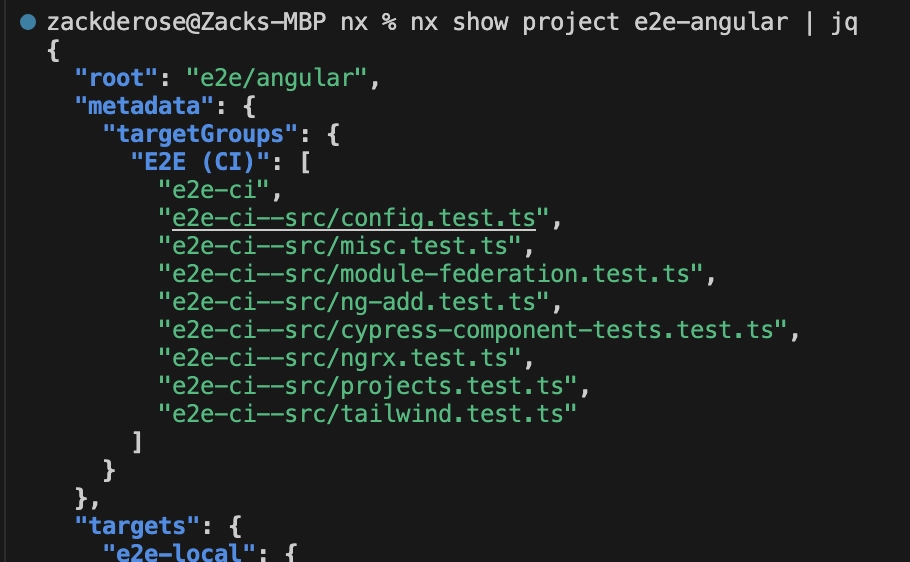
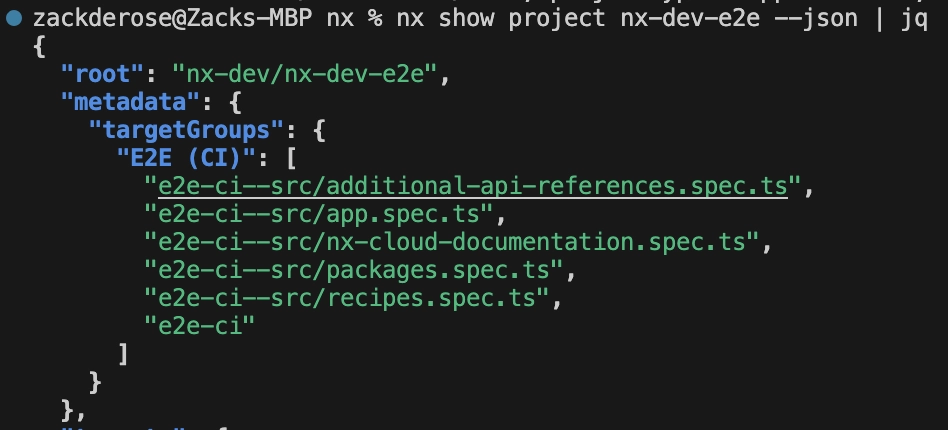
docs(core): editting for Jason review

Changed region(s): [[0.0, 0.0, 0.9846, 1.0]]

diff --git a/docs/blog/2024-05-07-nx-19-release.md b/docs/blog/2024-05-07-nx-19-release.md
@@ -27,7 +27,7 @@ Here's the rundown of the major things we'll cover in this update:
 - [NEW PLUGIN: @nx/gradle](#new-plugin-nxgradle)
 - [Nx Atomizer Enhancements](#nx-atomizer-enhancements)
 - [Project View Enhancements](#more-project-view-enhancements-for-targets)
-- [Generators to Migrate to Project Crystal](#generators-to-migrate-to-project-crystal)
+- [Generators to Convert to Project Crystal](#generators-to-convert-to-project-crystal)
 - [BREAKING CHANGE: Updating Bundled Environment Variables: `NX_` to `NX_PUBLIC_`](#breaking-change-updating-bundled-environment-variables-to)
 - [General Crystal Polishing](#general-crystal-polishing)
 - [New Conference: Monorepo World 2024](#new-conference-monorepo-world-2024)
@@ -42,13 +42,11 @@ We've launched a new first-party plugin for Gradle!
 
 Emily, the engineer that worked on this effort, posted an entire article where you can find the full details [here](/blog/2024-04-19-manage-your-gradle).
 
-Like most of our Nx plugins, you'll be able to use this plugin to generate new applications and projects in your workspace for Gradle, as well as to manage your project dependencies and tasks!
+Thanks to the benefits of Project Crystal - which allows us to determine information to create Nx Tasks based on the way your Gradle projects are setup - by adding this plugin, it makes it easy to add Gradle into an existing workspace without needing any Nx-specific configuration.
 
-Like all our plugins from here on out, this plugin is supports Project Crystal from the start, which allows us to determine information to create Nx Tasks based on the way your Gradle projects are setup - no further Nx-specific configuration required!
+In addition, you can now find [a new tutorial on using Nx with Gradle](/getting-started/tutorials/gradle-tutorial) which will expand on the Java Spring framework's tutorial for multi-module projects and show you how Nx further enhances the developer experience of that workspace. This tutorial takes you all the way through setting up your CI pipeline with Nx Cloud, so be sure to check it out!
 
-In addition, you can now find [a new tutorial on using Nx with Gradle](/getting-started/tutorials/gradle-tutorial) which will expand on the Java Spring framework's tutorial for multimodal projects and show you how Nx further enhances those features. This tutorial takes you all the way through setting up your CI pipeline with Nx Cloud, so be sure to check it out!
-
-As an editorial note, this Gradle plugin is a big step for Nx, as it represents the first major step we're taking outside of the Javascript sandbox. This has always been the goal: to robustly support monorepos and full-stack development, even across language and ecosystem barriers. We're using this Gradle plugin internally for our closed-sourced projects (in particular Nx Cloud) and we're very proud of this plugin and all that it represents.
+As an editorial note, this Gradle plugin is a big step for Nx, as it represents the first major step we're taking outside of the Javascript sandbox. This has always been the goal: to robustly support monorepos and full-stack development, even across language and ecosystem barriers. We're using this Gradle plugin internally for our closed-sourced projects (in particular Nx Cloud) and in [Nx Console](https://github.com/nrwl/nx-console/blob/master/package.json#L74) and we're very proud of this plugin and all that it represents.
 
 ## Nx Atomizer Enhancements
 
@@ -59,19 +57,19 @@ src="https://youtu.be/0YxcxIR7QU0"
 title="10x Faster e2e Tests!"
 width="100%" /%}
 
-While the Atomizer was great for reducing the wall time of end-to-end tests in CI pipelines, one unfortunate trade-off of the Atomizer was that rather than having a single task to represent your end-to-end validation tasks, you instead had a collection of tasks. This tended to clutter up tools when viewing your Nx Tasks. It also wasn't very clear which tasks belonged to which group!
+While the Atomizer was great for reducing the time of end-to-end tests in CI pipelines, one unfortunate trade-off of the Atomizer was that rather than having a single task to represent your end-to-end validation tasks, you instead had a collection of tasks. This tended to clutter up tools when viewing your Nx Tasks. It also wasn't very clear which tasks belonged to which group!
 
 We've addressed this in Nx 19 by introducing the concept of Task Grouping inside of our tooling.
 
 Now, when running the command:
 
 ```shell
-nx show project e2e-angular --web
+nx show project nx-dev-e2e --web
 ```
 
 You'll see the following in the project view:
 
-![Nx Show Project Web View](/blog/images/2024-05-07/nx-show-project-view.webp)
+![Nx Show Project Web View](/blog/images/2024-05-07/grouping-web-view.webp)
 
 Notice how all tasks are now appropriately grouped in the `E2E (CI)` group!
 
@@ -81,21 +79,19 @@ You can also find the same enhancements in Nx Cloud. Below is a view of all task
 
 Notice how all e2e groups are collapsed by default to give a concise view, while allowing you to expand to see how each individual task is progressing!
 
-To support this new feature, we've added the concept of `metadata` as a property of Nx projects. You can see this by running the command:
+Project Crystal is gathering the information to group your tasks, so this is automatically inferred for you based on the actual contents of your workspace. You can see this information by running the command:
 
 ```shell
-nx show project e2e-angular --json | jq
+nx show project nx-dev-e2e --json | jq
 ```
 
 ![Show Project JSON view](/blog/images/2024-05-07/show-project-json.webp)
 
-Notice that the information on how the tasks are grouped is automatically inferred by your Nx Plugin and put into the `metadata` for your project! All Nx Plugins that support Atomization will do this automatically for you, and if you are writing a custom plugin for your own tool or special use-case, you can leverage this `targetGroups` property to group your targets in Nx and Nx Cloud tooling as well!
+All Nx Plugins that support this concept of "Atomization" will do this automatically for you, and if you are writing a custom plugin for your own tool or special use-case, you can implect this inferrence to group your targets in Nx and Nx Cloud tooling as well. We'll be adding more documentation on how to implement this in your own plugins in the future.
 
-## More Project View Enhancements For Targets
+## Associated Technologies Added To Tasks
 
-In addition to adding `metadata` to Nx projects, we've also added the concept of `metadata` for Nx tasks!
-
-This means that you'll see additional information on tasks in the project detail web view:
+We've added icons for associated technologies on tasks in the project detail web view:
 
 ![Technology icons in Project Detail View](/blog/images/2024-05-07/icon-in-project-detail-view.gif)
 
@@ -113,13 +109,11 @@ nx show project e2e-angular --json | jq
 
 ![Highlighting target metadata](/blog/images/2024-05-07/highlight-target-metadata.webp)
 
-Notice how tasks now have a `metadata` property including `technologies` and `description` properties. As with the Atomizer, any custom tools can also take advantage of these properties to enable this behavior in Nx and Nx Cloud tooling!
+## Generators to Convert to Project Crystal
 
-## Generators to Migrate to Project Crystal
+As part of Nx 19, we've included generators to our Playwright, Cypress, and ESLint plugins to allow you to easily convert your projects to opt into Project Crystal features!
 
-As part of Nx 19, we've included migrations for our Playwright, Cypress, and ESLint plugins to allow you to easily opt into Project Crystal features!
-
-To migrate your workspace, you can use the command:
+To convert your workspace, you can use the command:
 
 ```shell
 nx generate convert-to-inferred
@@ -131,21 +125,21 @@ Before running this command you could expect your project detail view to look li
 nx show project my-react-app-e2e --web
 ```
 
-![Before Migration](/blog/images/2024-05-07/before-migration.webp)
+![Before Conversion](/blog/images/2024-05-07/before-conversion.webp)
 
 And after running the generator, you can expect your project detail view to look like this:
 
-![After Migration](/blog/images/2024-05-07/after-migration.webp)
+![After Conversion](/blog/images/2024-05-07/after-conversion.webp)
 
-Notice that in addition to reducing the configuration in your `project.json` file, this generator will also turn on the Nx Atomizer for your Cypress and Playwright projects, so Nx will always shard your end-to-end tasks based on the tests present in your workspace going forward.
+Notice that in addition to reducing the configuration in your `project.json` file, this generator will also turn on the Nx Atomizer for your Cypress and Playwright projects, so Nx will allow sharding for your end-to-end tasks in CI based on the tests present in your workspace going forward. Note that Nx Agents are very highly highly encouraged as a way of taking advantage of this sharding capability.
 
-As a note, if you cannot see `e2e-ci` tasks after migrating your cypress projects, you can [take a closer look here](/nx-api/cypress/documents/overview#splitting-e2e-tasks-by-file) at how to configure them correctly.
+As a note, if you cannot see `e2e-ci` tasks after converting your cypress projects, you can [take a closer look here](/nx-api/cypress/documents/overview#splitting-e2e-tasks-by-file) at how to configure them correctly.
 
 ## BREAKING CHANGE: Updating Bundled Environment Variables: `NX_` to `NX_PUBLIC_`
 
 An important update for folks using environment variables in their builds!
 
-Previously, when building projects your projects in an Nx workspace, our builds were setup to include any environment variables prefixed with `NX_` and include them in the built artifact so they would be accessible there. This is often used for setting things like urls for different versions of external services to hit - for example, sending requests to your local development server while developing, but pointing to the production service for your production build.
+Previously, when building your projects in an Nx workspace, our builds were setup to include any environment variables prefixed with `NX_` and include them in the built artifact so they would be accessible there. This is often used for setting things like urls for different versions of external services to hit - for example, sending requests to your local development server while developing, but pointing to the production service for your production build.
 
 Going forward, these environment variables will need to be prefixed with `NX_PUBLIC_`. This is a security consideration - by requiring a more specific prefix we're making sure that no secrets end up in your production builds unintentionally!
 
@@ -155,11 +149,17 @@ Because of the nature of this change we will NOT be providing an automatic migra
 
 Along with the features above (many of which further build upon Nx Project Crystal), we've done quite a bit since Nx 18 to polish the features that we introduced with Project Crystal.
 
+Since Nx 18 release, we also started using Project Crystal inside of the Nx repo itself (as well as in Nx Console and in our closed-source monorepo as well). This has allowed us to find many improvements we can make, as well as issues we can fix.
+
 You can find a full list of fixes and features applied in this major release [here](https://github.com/nrwl/nx/releases/tag/19.0.0).
 
 [![Changelog for Nx 19](/blog/images/2024-05-07/fixes.gif)](https://github.com/nrwl/nx/releases/tag/19.0.0)
 
-With Project Crystal landed now, we're also adjusting our priorities to place a higher importance on stability. You should see this reflected in Nx 19. In future cycles, we've also committed to continuing to reduce the total number of open github issues, and further increasing stability going forward.
+With Project Crystal landed now, we're also adjusting our priorities to place a higher importance on stability. You should see this reflected in Nx 19.
+
+As a note, we had noticed an increase in the rate of Github issues since Nx 18 launched. Previously, we had not allocated enough resources to handling these issues. To address this, our team is going to be doubling the amount of time focusing on maintainence.
+
+In addition - we are adding more process to make the triage of these issues more efficient. Github issues will now be assigned directly to specific members of the Nx Core Team. The main intention of this change is to increase the efficiency of the resources that we do spend on addressing issues.
 
 ## NEW CONFERENCE: Monorepo World 2024
 
